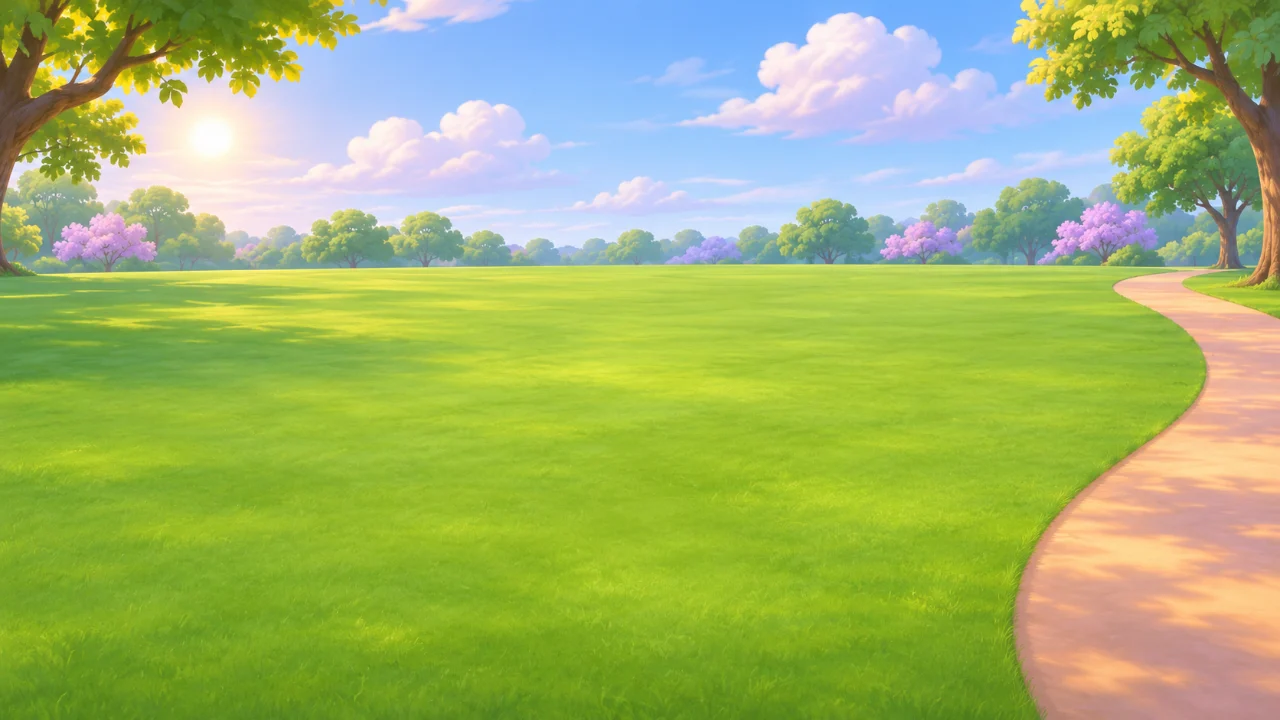
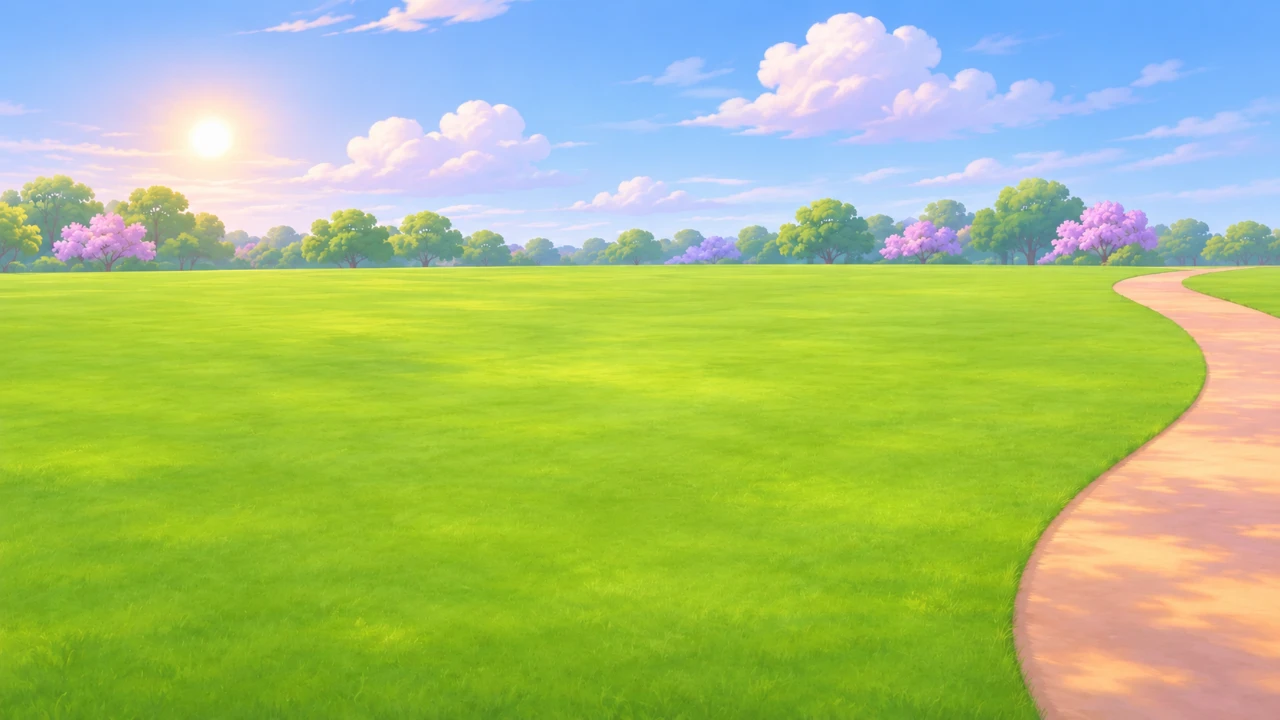
Despeja el parque y añade piezas de relieve

diff --git a/Construye_Escenas/retos.js b/Construye_Escenas/retos.js
@@ -61,13 +61,14 @@
     ]}
   ];
 
-  const femeninos = new Set('fuente nina pelota flores casa sombrilla tienda fogata bicicleta cerca oveja vaca escuela nube'.split(' '));
+  const femeninos = new Set('fuente nina pelota flores casa sombrilla tienda fogata bicicleta cerca oveja vaca escuela nube montana'.split(' '));
   const variantes = [
     ['tobogan', 'Tobogán', 'Slide'], ['columpios', 'Columpios', 'Swing set'], ['trampolin', 'Trampolín', 'Trampoline'],
     ['bicicleta', 'Bicicleta', 'Bicycle'], ['casa-abierta', 'Casa abierta', 'Open house'], ['cerca', 'Cerca', 'Fence'],
     ['perro', 'Perro', 'Dog'], ['gato', 'Gato', 'Cat'], ['oveja', 'Oveja', 'Sheep'], ['vaca', 'Vaca', 'Cow'],
     ['pajaro', 'Pájaro', 'Bird'], ['caballo', 'Caballo', 'Horse'], ['escuela', 'Escuela', 'School'],
-    ['sol', 'Sol', 'Sun'], ['nube', 'Nube', 'Cloud']
+    ['sol', 'Sol', 'Sun'], ['nube', 'Nube', 'Cloud'],
+    ['volcan', 'Volcán', 'Volcano'], ['montana', 'Montaña', 'Mountain'], ['cerro', 'Cerro', 'Hill']
   ];
   const vehiculos = [];
   for (const [tipo, es, en] of [['carro','Carro','car'], ['camion','Camión','truck'], ['autobus','Autobús','bus']]) {
@@ -102,11 +103,13 @@
     rio: par('en el río', 'in the river'),
     playa: par('en el mar', 'in the sea'),
     lago: par('en el lago', 'in the lake'),
-    cielo: par('en el cielo', 'in the sky')
+    cielo: par('en el cielo', 'in the sky'),
+    relieve: par('al fondo del paisaje', 'at the back of the landscape')
   };
   const juegos = 'tobogan columpios trampolin';
   const animales = 'perro gato conejo oveja vaca caballo';
   const clima = 'sol nube pajaro';
+  const relieve = new Set(['volcan','montana','cerro']);
   const basicos = 'nino nina banco arbol flores pelota bicicleta';
   const lista = (...grupos) => [...new Set(grupos.flatMap(grupo => grupo.split(' ')))];
   const paisajes = [
@@ -117,9 +120,9 @@
     {nombre: par('Un día de playa', 'A day at the beach'), terreno: 'playa', suelo:'arena',
       objetos: lista('sombrilla barco castillo pato nino nina pelota banco bicicleta casa-abierta cerca perro gato arbol', clima)},
     {nombre: par('La casa de la granja', 'The farmhouse'), terreno: 'granja', suelo:'cesped',
-      objetos: lista('casa-abierta vaca oveja caballo cerca casa arbol nino nina', basicos, animales, clima)},
+      objetos: lista('casa-abierta vaca oveja caballo cerca casa arbol nino nina cerro', basicos, animales, clima)},
     {nombre: par('Campamento entre montañas', 'Mountain campsite'), terreno: 'campamento', suelo:'cesped',
-      objetos: lista('arbol tienda fogata nino nina cerca casa-abierta', basicos, animales, clima)},
+      objetos: lista('arbol tienda fogata nino nina cerca casa-abierta', [...relieve].join(' '), basicos, animales, clima)},
     {nombre: par('El barrio', 'The neighbourhood'), terreno: 'barrio', suelo:'cesped',
       objetos: lista('casa-abierta bicicleta nino nina casa escuela fuente cerca', basicos, juegos, animales, clima, vehiculos.join(' '))},
     {nombre: par('La terminal', 'The transport terminal'), terreno: 'terminal', suelo:'pavimento',
@@ -147,14 +150,27 @@
     return a.id === 'casa-abierta' && EscenarioConstruccion.dentroCasa(x,z,a);
   }
   const dist = (x,z,a) => Math.hypot(x - a.x, (z - a.z) * .83);
-  const sueloPieza = (id, reto) => clima.split(' ').includes(id) ? 'cielo' :
+  const sueloPieza = (id, reto) => relieve.has(id) ? 'relieve' : clima.split(' ').includes(id) ? 'cielo' :
     ['barco','pato'].includes(id) ? reto.terreno :
     vehiculos.includes(id) && reto.terreno === 'barrio' ? 'calle' : reto.suelo;
 
+  const senderoParque = [
+    [.08,701,724],[.12,661,702],[.16,675,729],[.20,694,760],[.25,709,760],[.35,716,760],
+    [.45,699,760],[.55,667,760],[.65,636,760],[.75,617,760],[.85,606,760],[.95,602,760]
+  ];
+  function cespedParque(x, z) {
+    const siguiente = Math.max(1, senderoParque.findIndex(([fondo]) => fondo >= z));
+    const [a, izqA, derA] = senderoParque[siguiente - 1];
+    const [b, izqB, derB] = senderoParque[siguiente];
+    const avance = (z - a) / (b - a);
+    const [px] = EscenarioConstruccion.proyectar(x,z);
+    return px < izqA + (izqB - izqA) * avance || px > derA + (derB - derA) * avance;
+  }
   function superficie(x,z,suelo,reto,id) {
     if (x < .055 || x > .945) return false;
     if (suelo === 'cielo') return z >= -.54 && z <= -.36;
     if (z < .08 || z > (reto.terreno === 'barrio' ? .985 : .935)) return false;
+    if (suelo === 'relieve') return z <= .30;
     if (orillas[suelo]) {
       const margen = id === 'barco' ? EscenarioConstruccion.semiAnchoEnEscena(id,x,z,reto.terreno) : 0;
       return z >= .25 && distanciaOrilla(reto.terreno,x,z) <= -margen;
@@ -163,10 +179,7 @@
     if (reto.terreno === 'barrio') {
       return suelo === 'calle' ? z >= .465 && z <= .765 : z >= .94 || z <= .403;
     }
-    if (reto.terreno === 'parque') {
-      const bordeSendero = .967 - .169 * Math.min(1, Math.max(0, (z - .29) / .68));
-      return EscenarioConstruccion.proyectar(x,z)[0] / EscenarioConstruccion.ancho < bordeSendero;
-    }
+    if (reto.terreno === 'parque') return cespedParque(x,z);
     return true;
   }
 
@@ -260,12 +273,13 @@
       verbos: barajar(verbos),
       tipos: barajar(['relacion','superficie','grupo','relacion','orilla','relacion']),
       direcciones: barajar(Object.keys(relacion)),
-      turnoBarco: ['rio','lago'].includes(reto.terreno) ? 1 + Math.floor(Math.random() * 2) : Infinity
+      turnoBarco: ['rio','lago'].includes(reto.terreno) ? 1 + Math.floor(Math.random() * 2) : Infinity,
+      turnoRelieve: reto.terreno === 'campamento' ? 1 + Math.floor(Math.random() * 2) : Infinity
     };
   }
 
   function siguientePaisaje(reto, colocadas, historial, ronda) {
-    const {orden,tipos,direcciones,turnoBarco} = ronda;
+    const {orden,tipos,direcciones,turnoBarco,turnoRelieve} = ronda;
     const indice = historial.length;
     const verbo = ronda.verbos[indice % ronda.verbos.length];
     const usados = new Set(historial.map(paso => paso.id));
@@ -282,6 +296,12 @@
       const paso = mejor('barco',null,tipos[(indice - 1) % tipos.length] === 'orilla' ? 'orilla' : null) ||
         mejor('barco');
       if (paso) return paso;
+    }
+    if (indice >= turnoRelieve && !historial.some(paso => relieve.has(paso.id))) {
+      for (const id of candidatos.filter(id => relieve.has(id))) {
+        const paso = mejor(id);
+        if (paso) return paso;
+      }
     }
     if (indice === 0) return mejor(orden[0]) || candidatos.map(id => mejor(id)).find(Boolean);
 

diff --git a/Construye_Escenas/escenario.js b/Construye_Escenas/escenario.js
@@ -115,17 +115,20 @@
       [17,647,276,205],[309,647,276,206],[600,647,281,206]
     ],
     recreopiezas: [[25,28,271,261],[305,46,290,231],[605,76,286,206],[7,341,289,224]],
+    relieve: [[9,61,282,179],[309,71,282,158],[609,104,282,92]],
     extra: [[14,17,277,268],[326,7,239,278],[606,10,282,275],[9,291,288,282],[321,335,271,219],
       [605,291,287,285],[8,588,289,296],[310,590,279,276],[604,626,289,213]]
   };
   const ids = {
     coches: Object.keys(alturasVehiculos).flatMap(tipo => coloresVehiculo.map(color => tipo + '-' + color)),
     recreopiezas: ['tobogan','columpios','trampolin','bicicleta'],
+    relieve: ['volcan','montana','cerro'],
     extra: ['perro','gato','oveja','vaca','pajaro','caballo','escuela','sol','nube']
   };
   const alturas = {
     coches: Object.values(alturasVehiculos).flatMap(alto => coloresVehiculo.map(() => alto)),
     recreopiezas: [107,110,62,63],
+    relieve: [224,245,101],
     extra: [47,35,61,88,33,105,218,63,59]
   };
   const atlasPieza = {};
@@ -204,7 +207,7 @@
     for (const tipo of ['rio','parque','playa','granja','campamento','barrio','terminal','recreo','lago']) {
       const imagen = new Image();
       imagen.onload = () => { fondos.set(tipo, imagen); alCargar(tipo); };
-      imagen.src = `paisajes/${tipo}.webp`;
+      imagen.src = `paisajes/${tipo}.webp${tipo === 'parque' ? '?v=despejado' : ''}`;
     }
     for (const grupo of ['objetos', ...Object.keys(grupos), ...Object.keys(vistasVehiculos), ...Object.keys(piezasIndividuales)]) {
       const imagen = new Image();

diff --git a/Construye_Escenas/construye.html b/Construye_Escenas/construye.html
@@ -95,8 +95,8 @@
   <script src="textos.js?v=paisajes-8"></script>
   <script src="../idioma-voz.js"></script>
   <script src="../matematicas-base.js"></script>
-  <script src="escenario.js?v=paisajes-9"></script>
-  <script src="retos.js?v=paisajes-9"></script>
+  <script src="escenario.js?v=paisajes-10"></script>
+  <script src="retos.js?v=paisajes-10"></script>
   <script src="construye.js?v=paisajes-9"></script>
   <script src="../pantalla-completa.js"></script>
   <script src="../panel-plegable.js?v=construye-1"></script>
